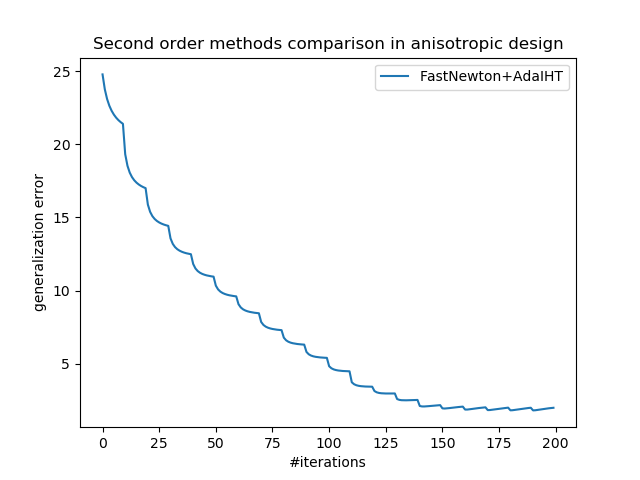
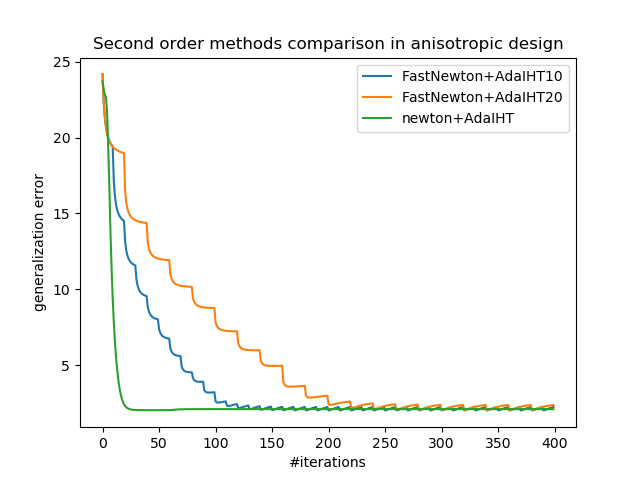
add FastNewton & Newton comparison

diff --git a/compare_gradient_descent.py b/compare_gradient_descent.py
@@ -30,6 +30,7 @@ class Compare:
         self.steps = constants.GD_STEPS  # number of experiments
         self.num_iter = constants.GD_NUM_ITERATION  # number of iterations
         self.x_original = constants.X
+        self.fast_newton_num_gd_tuple = (10, 20)
 
     def draw_change_of_error_by_threshold(self, map_of_thres_error, type: str):
         """Get the change of testing error w.r.t. the threshold in second order methods.
@@ -74,18 +75,32 @@ class Compare:
         """
         y, H, self.SIGMA_half = GenerateData(self.design).generate_data()
         algo_error_map = dict()
+        # To run algorithms to solve the linear regression.
         for gd_type in self.gd_types:
             for thres_type in self.thres_types:
-                algo_name = gd_type + "+" + thres_type
-                _, best_lambda, gener_error = GradientDescent(
-                ).get_errors_by_cv(self.x_original, y, H, self.num_iter,
-                                   self.SIGMA_half, gd_type, thres_type, False)
-                algo_error_map[algo_name] = gener_error
-                print(gd_type, thres_type, best_lambda)
+                if gd_type == constants.FAST_NEWTON_NAME:
+                    # The number of GradientDescent iterations before thresholding.
+                    for fast_newton_num_gd in self.fast_newton_num_gd_tuple:
+                        algo_name = gd_type + "+" + thres_type + str(
+                            fast_newton_num_gd)
+                        _, best_lambda, gener_error = GradientDescent(
+                            fast_newton_num_gd).get_errors_by_cv(
+                                self.x_original, y, H, self.num_iter,
+                                self.SIGMA_half, gd_type, thres_type, False)
+                        algo_error_map[algo_name] = gener_error
+                        print(gd_type, thres_type, best_lambda)
+                else:
+                    algo_name = gd_type + "+" + thres_type
+                    _, best_lambda, gener_error = GradientDescent(
+                    ).get_errors_by_cv(self.x_original, y, H, self.num_iter,
+                                       self.SIGMA_half, gd_type, thres_type,
+                                       False)
+                    algo_error_map[algo_name] = gener_error
+                    print(gd_type, thres_type, best_lambda)
         for algo_name in self.other_methods:
             _, best_lambda, gener_error = IterativeThresholdMethods(
             ).get_errors_by_cv(self.x_original, y, H, self.num_iter,
-                                self.SIGMA_half, algo_name, False)
+                               self.SIGMA_half, algo_name, False)
             algo_error_map[algo_name] = gener_error
             print(algo_name, best_lambda)
         return algo_error_map
@@ -100,22 +115,21 @@ class Compare:
         Value: a matrix - each row is an experiment and each column is an iteraton
         """
         algo_gener_errors_map = dict()
-        # Set initial value of gener_errors_matrix_map
-        for gd_type in self.gd_types:
-            for thres_type in self.thres_types:
-                algo_name = gd_type + "+" + thres_type
-                algo_gener_errors_map[algo_name] = np.zeros((self.num_iter))
-        for algo_name in self.other_methods:
-            algo_gener_errors_map[algo_name] = np.zeros((self.num_iter))
-
         # To multiprocess several experiments.
         pool = mp.Pool(mp.cpu_count())
         pool_result = pool.map(self.run_one_experiment, [1] * self.steps,
                                chunksize=1)
+        # To add pool_result into algo_gener_errors_map.
         for algo_error_map in pool_result:
             for algo_name in algo_error_map:
+                if not algo_gener_errors_map.get(algo_name):
+                    # Make sure that the value of algo_gener_errors_map is numpy.array.
+                    algo_gener_errors_map[algo_name] = np.zeros(
+                        (self.num_iter))
+                # It is numpy.add().
                 algo_gener_errors_map[algo_name] += algo_error_map[algo_name]
         for algo_name in algo_gener_errors_map:  # take average
+            # It is numpy.divide().
             algo_gener_errors_map[algo_name] /= self.steps
 
         for algo_name in algo_gener_errors_map:  # plot
@@ -150,9 +164,9 @@ if __name__ == "__main__":
     thres_types = (constants.IHT_NAME, constants.HTP_NAME)
     other_methods = (constants.ISTA_NAME, )
     """
-    gd_types = (constants.GD_NAME, constants.NEWTON_NAME, constants.FAST_NEWTON_NAME)
-    thres_types = (constants.IHT_NAME, constants.HTP_NAME)
-    other_methods = (constants.ISTA_NAME,)
+    gd_types = (constants.FAST_NEWTON_NAME, constants.NEWTON_NAME)
+    thres_types = (constants.IHT_NAME, )
+    other_methods = ()
 
     isotropic_obj = Compare(constants.ISOTROPIC_NAME, gd_types, thres_types,
                             other_methods)

diff --git a/algorithms/gradient_descent.py b/algorithms/gradient_descent.py
@@ -8,6 +8,11 @@ from utils.error import Error
 class GradientDescent:
     """Use gradient descent (gd), natural gd, newton or fast newton method with IHT/HTP to solve sparse linear regression.
     """
+    def __init__(self, fast_newton_num_gd=constants.FAST_NEWTON_NUM_GD):
+        """@param fast_newton_num_gd - the number of gradient descent iterations before thresholding in Fast Newton.
+        """
+        self.fast_newton_num_gd = fast_newton_num_gd
+
     def get_gd_step_size(self, H, gd_type: str, inv_sigma):
         """Compute the step size of gradient descent.
         
@@ -74,7 +79,7 @@ class GradientDescent:
         @param iter_type - includes iterative hard threshold (IHT), hard threshold pursuit (HTP).
         """
         if gd_type == constants.FAST_NEWTON_NAME:
-            if iter_index % constants.FAST_NEWTON_NUM_GD == 0:
+            if iter_index % self.fast_newton_num_gd == 0:
                 x[np.abs(x) < lambda_step] = 0
             return x
         if iter_type == constants.IHT_NAME:  # iterative hard threshold
@@ -140,7 +145,7 @@ class GradientDescent:
                     x_original, x, SIGMA_half)
             # update threshold
             if not (gd_type == constants.FAST_NEWTON_NAME
-                    and i % constants.FAST_NEWTON_NUM_GD == 0):
+                    and i % self.fast_newton_num_gd == 0):
                 lambda_step *= 0.95
             if lambda_step < final_threshold:
                 lambda_step = final_threshold
